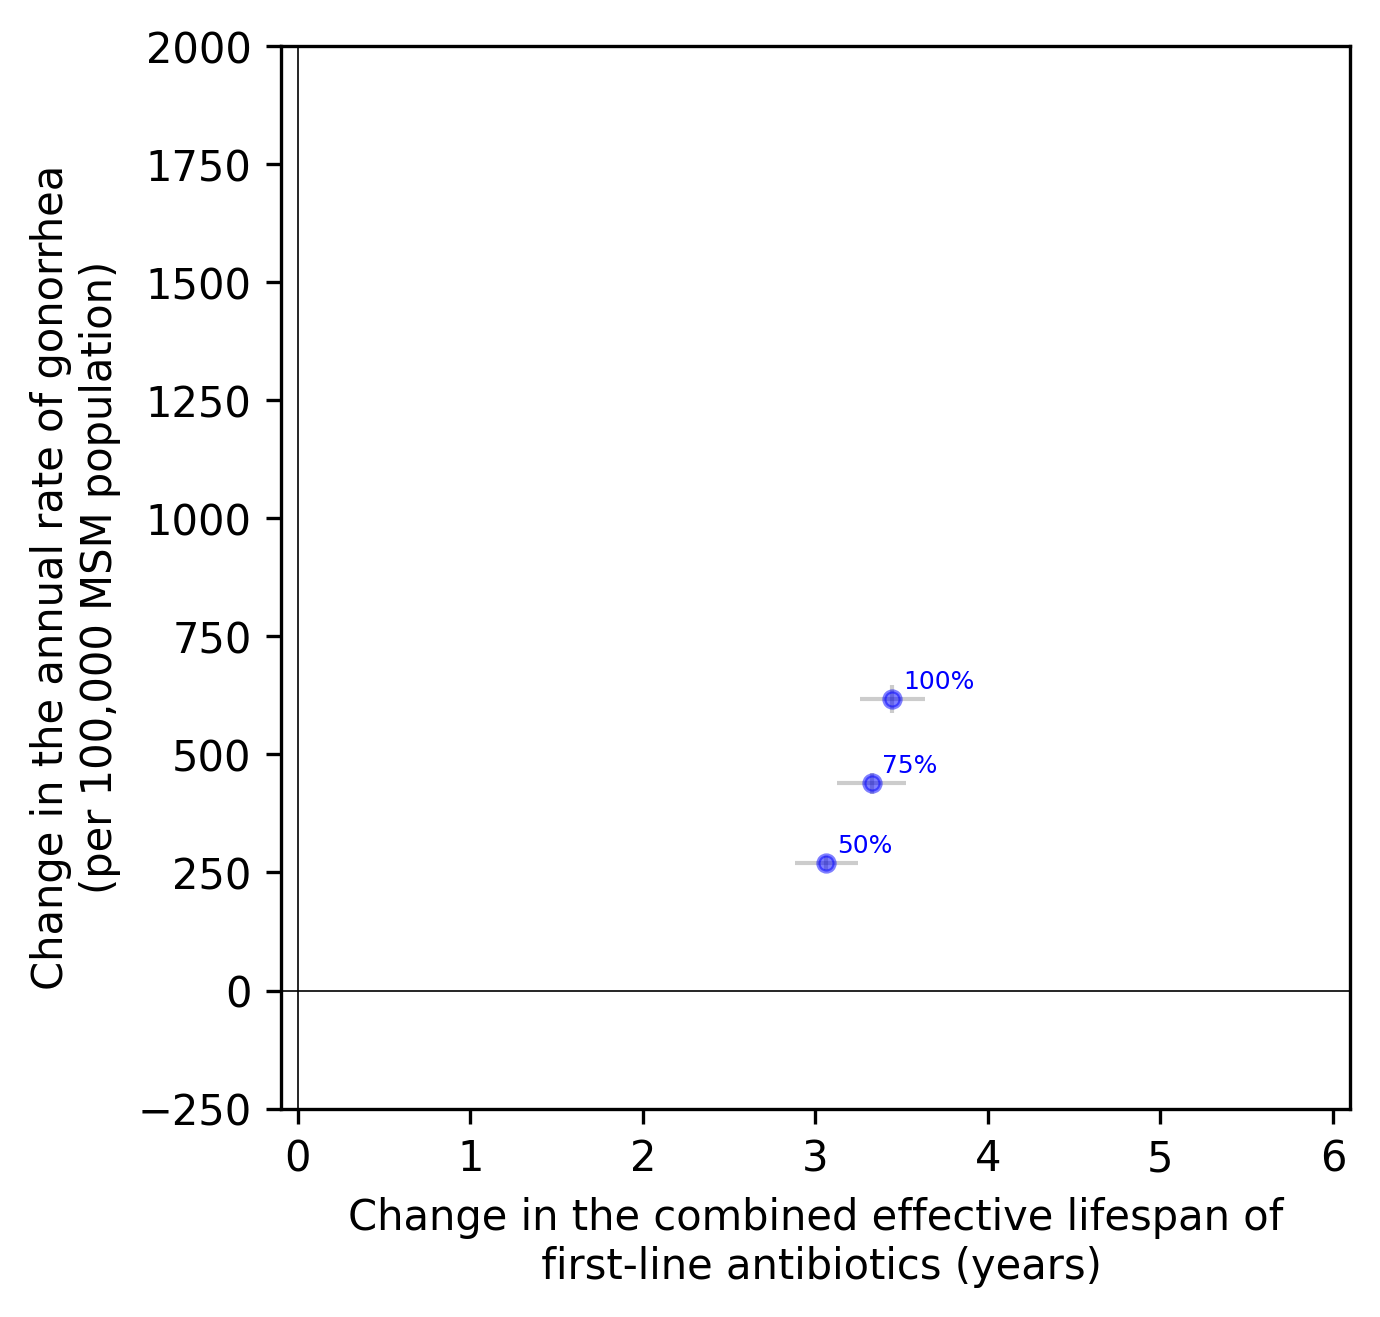
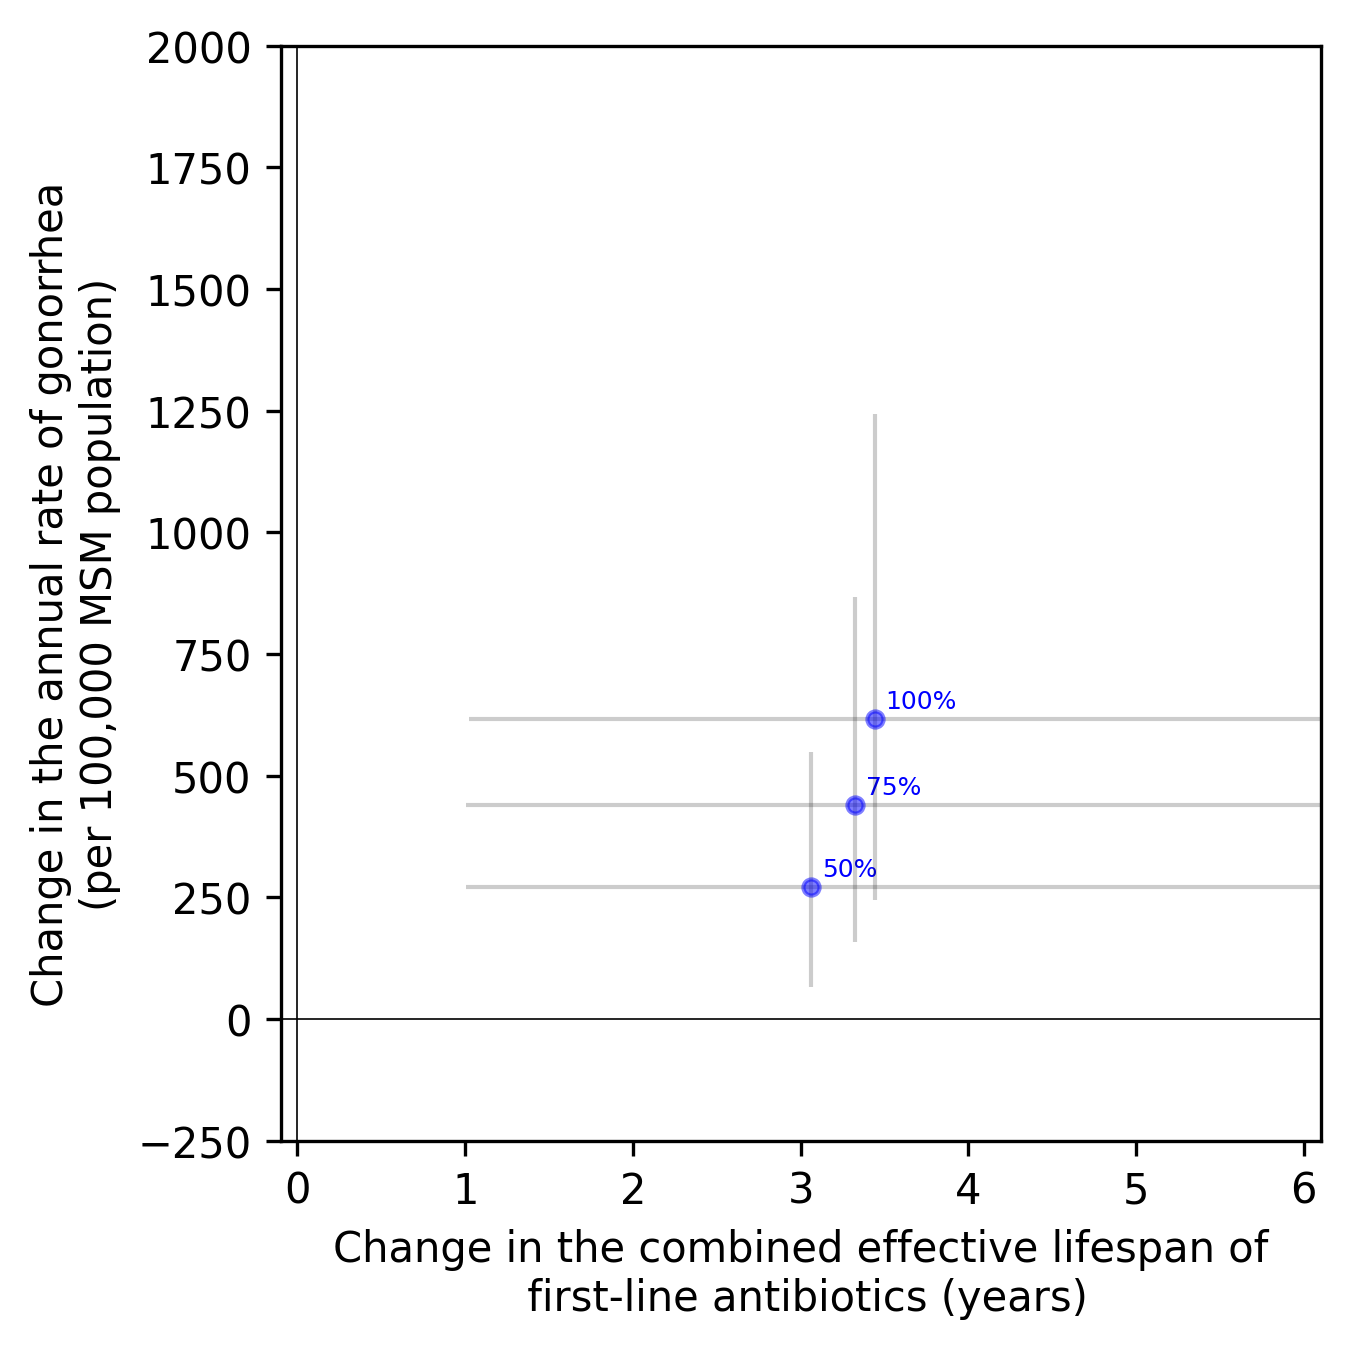
parameter pairwise

Changed region(s): [[0.0, 0.0, 0.9956, 0.9962], [0.56, 0.4358, 0.7156, 0.6849]]

diff --git a/analysis/analyze_and_plot_scenarios.py b/analysis/analyze_and_plot_scenarios.py
@@ -52,14 +52,15 @@ def plot_by_sens_spec_coverage(if_m_available_for_1st_tx, ab, include_sens_label
         l_b_r_t=(0.1, 0.15, 0.97, 0.9), fig_size=TRIPLE_FIG_SIZE)
 
 
-def export_summary_and_plots_for_varying_coverage(if_m_available,
-                                                  simulation_duration, calibration_seed=None):
+def export_summary_and_plots_for_varying_coverage(
+        if_m_available, simulation_duration, calibration_seed=None, interval='c'):
     """
     exports performance summary and plot the cost-effectiveness figure for varying coverage level under
         this scenario of the availability for M
     :param if_m_available: (bool) if M is available for the first-line therapy
     :param simulation_duration: (float) simulation duration (for sensitivity analysis)
     :param calibration_seed: (int) calibration seed (for sensitivity analysis)
+    :param interval: (string) 'c' for confidence interval and 'p' for prediction interval
     """
 
     # export performance of different scenarios of test characteristics
@@ -88,7 +89,8 @@ def export_summary_and_plots_for_varying_coverage(if_m_available,
         sim_duration=simulation_duration,
         fig_file_name=fig_file_name,
         x_range=x_range,
-        y_range=y_range)
+        y_range=y_range,
+        interval=interval)
 
 
 def plot_by_sens_spec(
@@ -148,7 +150,7 @@ if __name__ == "__main__":
 
     # plot for when sensitivity and specificity of tests have Beta distribution
     export_summary_and_plots_for_varying_coverage(
-        if_m_available=True,  simulation_duration=SIM_DURATION)
+        if_m_available=True,  simulation_duration=SIM_DURATION, interval='c')
 
     # export_summary_and_plots_for_varying_coverage(
     #     if_m_available=True, simulation_duration=35)
@@ -162,6 +164,6 @@ if __name__ == "__main__":
     # export_summary_and_plots_for_varying_coverage(
     #     if_m_available=False, simulation_duration=35)
     #
-    plot_by_sens_spec(
-        if_m_available=True,
-        simulation_duration=SIM_DURATION)
+    # plot_by_sens_spec(
+    #     if_m_available=True,
+    #     simulation_duration=SIM_DURATION)

diff --git a/model/plots.py b/model/plots.py
@@ -157,13 +157,14 @@ def plot_trajectories(prev_multiplier=52, incd_multiplier=1,
                                   file_name=dir_of_traj_figs+'/(valid-Tx) ' + filename)
 
 
-def plot_sa_for_varying_coverage(csv_file_name, sim_duration, fig_file_name, x_range, y_range):
+def plot_sa_for_varying_coverage(csv_file_name, sim_duration, fig_file_name, x_range, y_range, interval='c'):
     """ plots the cost-effectiveness figure for varying test coverage under unknown sensitivity and specificity values
     :param csv_file_name: (string) csv filename where the summary of simulated scenarios are located
     :param sim_duration: (float) simulation duration
     :param fig_file_name: (string) filename of the figure to save the results as
     :param x_range: range of x-axis
     :param y_range: range of y-axis
+    :param interval: (string) 'c' for confidence interval and 'p' for prediction interval
     """
 
     # read scenarios into a dataframe
@@ -184,6 +185,7 @@ def plot_sa_for_varying_coverage(csv_file_name, sim_duration, fig_file_name, x_r
         cost_outcome=COST_OUTCOME,
         labels=EFFECT_COST_LABELS,
         health_measure='u',
+        interval_type=interval,
         x_range=x_range,
         y_range=y_range,
         cost_multiplier=100000,

diff --git a/analysis/calibrate.py b/analysis/calibrate.py
@@ -62,7 +62,6 @@ def calibrate(if_m_available, calibration_seed):
     calibration.save_results()
 
     # estimate parameters and draw histograms
-
     estimate_parameters(n_of_resamples=N_OF_RESAMPLES_FOR_PARAM_ESTIMATION,
                         calibration_summary_file=sets.folderToSaveCalibrationResults+'/calibration_summary.csv',
                         calibration_folder=sets.folderToSaveCalibrationResults,
